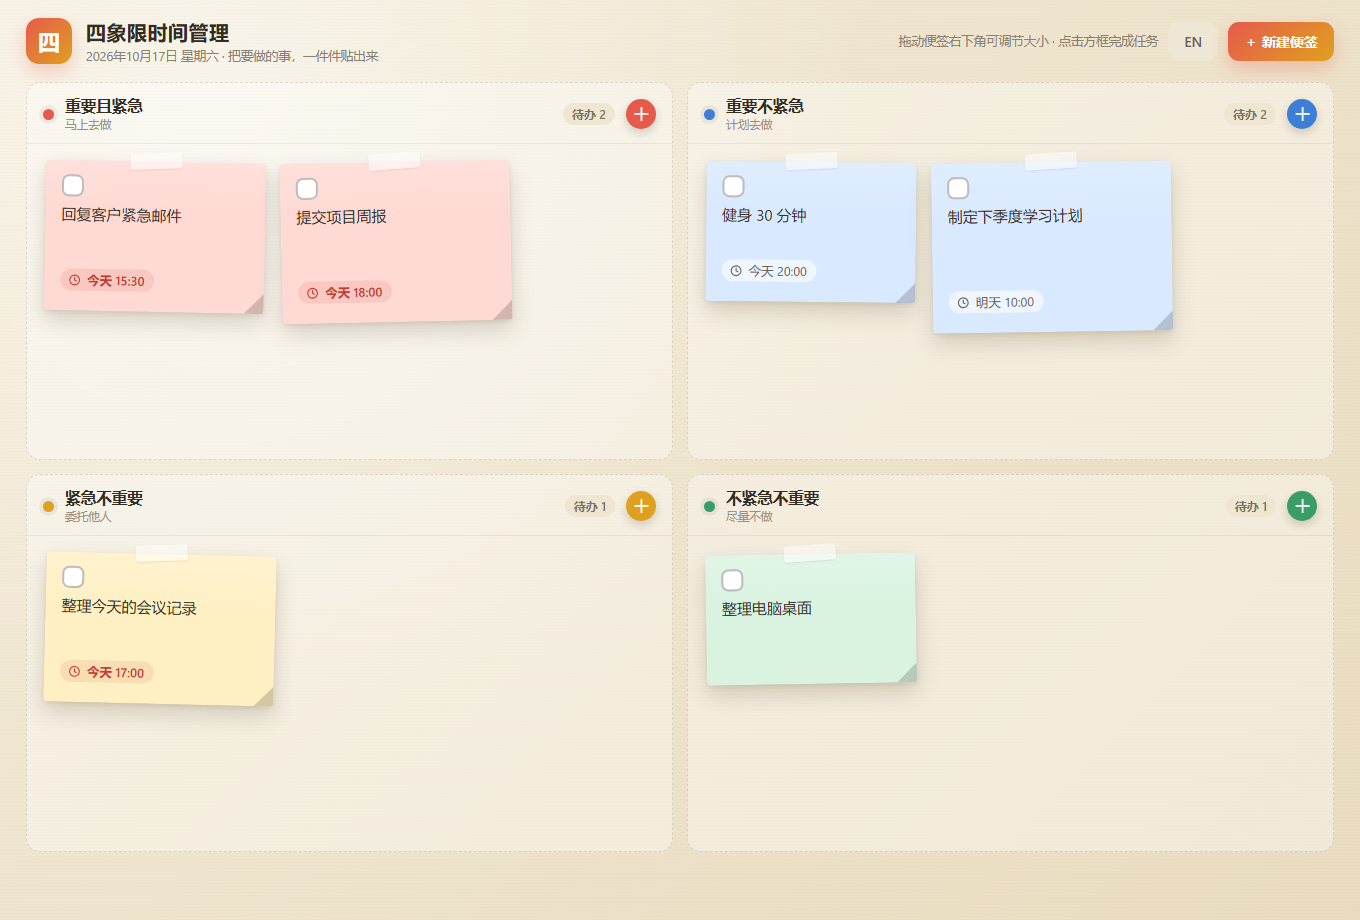
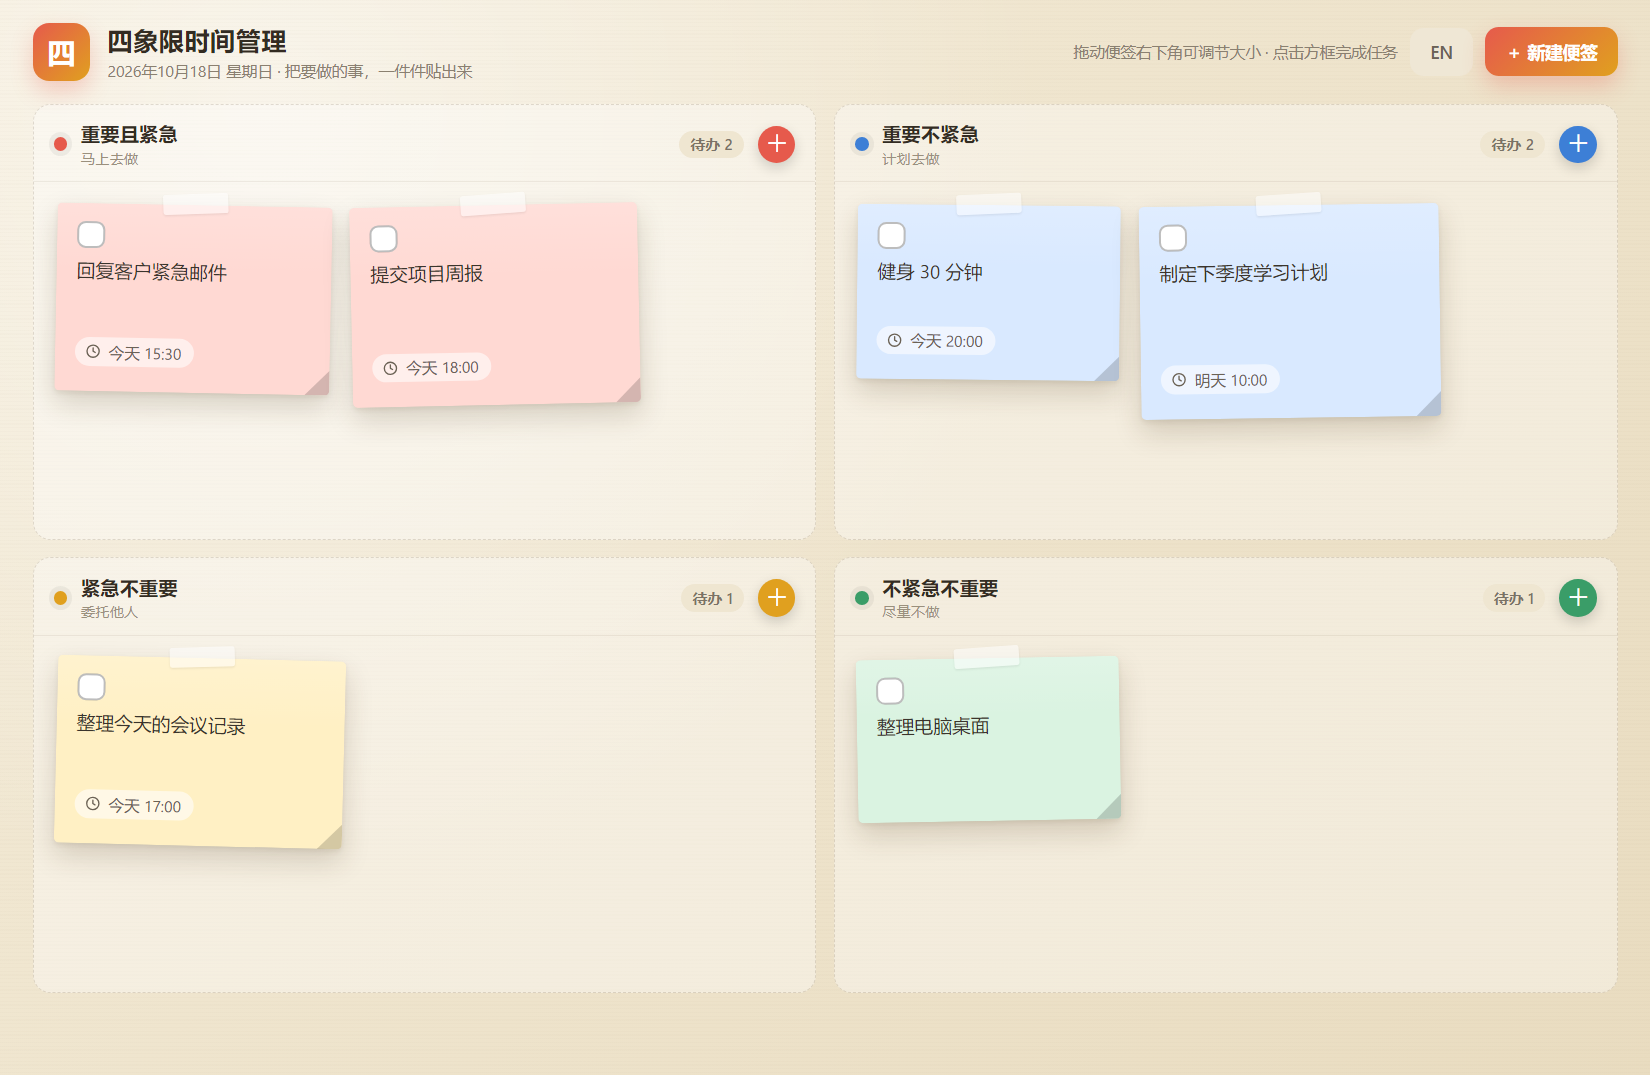
删除开机自启动,更换图标

diff --git a/renderer/app.js b/renderer/app.js
@@ -18,8 +18,6 @@ const I18N = {
     resize: "拖动右下角调节大小",
     toDo: "待完成",
     todoLabel: "待办",
-    startup: "开机自启",
-    startupTip: "登录后自动启动本应用",
     addHere: "添加便签",
     today: "今天",
     tomorrow: "明天",
@@ -50,8 +48,6 @@ const I18N = {
     resize: "Drag the corner to resize",
     toDo: "To-do",
     todoLabel: "To-do",
-    startup: "Start at login",
-    startupTip: "Launch this app automatically at login",
     addHere: "Add note",
     today: "Today",
     tomorrow: "Tomorrow",
@@ -304,8 +300,6 @@ function applyI18n() {
   $("hint").textContent = L.hint;
   $("langBtn").textContent = lang === "zh" ? "EN" : "中文";
   $("globalAdd").textContent = L.newNote;
-  $("startupLabel").textContent = L.startup;
-  $("startupWrap").setAttribute("title", L.startupTip);
   $("today").textContent = fmtHeaderDate();
 
   document.querySelectorAll(".quadrant").forEach(function (q) {
@@ -388,23 +382,6 @@ $("langBtn").addEventListener("click", function () {
   applyI18n();
   renderAll();
 });
-
-const startupToggle = $("startupToggle");
-if (window.startupAPI) {
-  window.startupAPI.get().then(function (v) {
-    startupToggle.checked = !!v;
-  }).catch(function () {});
-  startupToggle.addEventListener("change", function () {
-    const desired = startupToggle.checked;
-    window.startupAPI.set(desired).then(function (ok) {
-      startupToggle.checked = !!ok;
-    }).catch(function () {
-      startupToggle.checked = !desired;
-    });
-  });
-} else {
-  $("startupWrap").style.display = "none";
-}
 
 applyI18n();
 renderAll();

diff --git a/main.js b/main.js
@@ -1,9 +1,14 @@
-const { app, BrowserWindow, Menu, ipcMain } = require("electron");
+const { app, BrowserWindow, Menu } = require("electron");
+const fs = require("fs");
 const path = require("path");
-const { getStartupEnabled, setStartupEnabled } = require("./startup");
 
 function createWindow() {
-  const win = new BrowserWindow({
+  const iconPath = path.join(
+    __dirname,
+    "build",
+    process.platform === "win32" ? "icon.ico" : "icon.png"
+  );
+  const windowOptions = {
     width: 1320,
     height: 860,
     minWidth: 920,
@@ -12,21 +17,22 @@ function createWindow() {
     backgroundColor: "#f3ead7",
     autoHideMenuBar: true,
     webPreferences: {
-      preload: path.join(__dirname, "preload.js"),
       contextIsolation: true,
       nodeIntegration: false
     }
-  });
+  };
+
+  if (!app.isPackaged && fs.existsSync(iconPath)) {
+    windowOptions.icon = iconPath;
+    if (process.platform === "darwin" && app.dock) {
+      app.dock.setIcon(iconPath);
+    }
+  }
+
+  const win = new BrowserWindow(windowOptions);
 
   win.loadFile(path.join(__dirname, "renderer", "index.html"));
 }
-
-ipcMain.handle("startup:get", () => getStartupEnabled());
-
-ipcMain.handle("startup:set", async (_event, value) => {
-  await setStartupEnabled(!!value);
-  return getStartupEnabled();
-});
 
 app.whenReady().then(() => {
   if (process.platform === "darwin") {

diff --git a/renderer/styles.css b/renderer/styles.css
@@ -79,56 +79,6 @@ body {
   font-weight: 600;
 }
 
-.startup {
-  display: flex;
-  align-items: center;
-  gap: 7px;
-  cursor: pointer;
-  font-size: 13px;
-  color: var(--muted);
-  white-space: nowrap;
-  -webkit-user-select: none;
-  user-select: none;
-}
-
-.startup input {
-  position: absolute;
-  width: 0;
-  height: 0;
-  opacity: 0;
-}
-
-.switch {
-  width: 34px;
-  height: 19px;
-  border-radius: 999px;
-  background: #d9d0bd;
-  position: relative;
-  flex: 0 0 auto;
-  transition: background .15s ease;
-}
-
-.switch::after {
-  content: "";
-  position: absolute;
-  top: 2px;
-  left: 2px;
-  width: 15px;
-  height: 15px;
-  border-radius: 50%;
-  background: #fff;
-  box-shadow: 0 1px 2px rgba(0, 0, 0, .25);
-  transition: left .15s ease;
-}
-
-.startup input:checked + .switch {
-  background: #3a9d68;
-}
-
-.startup input:checked + .switch::after {
-  left: 17px;
-}
-
 .board {
   display: grid;
   grid-template-columns: 1fr 1fr;

diff --git a/renderer/index.html b/renderer/index.html
@@ -17,11 +17,6 @@
     </div>
     <div class="top-actions">
       <span id="hint" class="hint"></span>
-      <label class="startup" id="startupWrap" title="登录后自动启动本应用">
-        <input type="checkbox" id="startupToggle">
-        <span class="switch"></span>
-        <span id="startupLabel">开机自启</span>
-      </label>
       <button id="langBtn" class="btn ghost" title="Switch language">EN</button>
       <button id="globalAdd" class="btn primary">＋ 新建便签</button>
     </div>

diff --git a/README_EN.md b/README_EN.md
@@ -19,7 +19,6 @@ English · [简体中文](README.md)
 - **Mark as done**: completed notes fade out with a strikethrough and move to the end of the quadrant; a live to-do counter sits in each quadrant header
 - **Free resizing**: drag the folded corner at the bottom-right of a note to resize it
 - **Bilingual UI**: switch between Chinese and English with one click; your choice is remembered
-- **Launch at login**: optional auto-start on login
 - **Local data storage**: data is stored on your machine, works offline, and survives restarts; sample notes included on first launch
 - **Zero-dependency runtime**: the packaged app is a single portable file — no installation, no network required
 
@@ -62,15 +61,14 @@ See [TEST.md](TEST.md) for the manual test checklist, covering 9 groups: launch,
 
 ## Tech stack
 
-- [Electron](https://www.electronjs.org/) 33 (main process + preload script, contextIsolation enabled)
+- [Electron](https://www.electronjs.org/) 33 (main process + renderer, contextIsolation enabled)
 - Plain HTML / CSS / JavaScript in the renderer — no frontend framework
 - Data storage: localStorage
 
 ## Project layout
 
 ```
-├── main.js           # Electron main process (window, menu, launch-at-login)
-├── preload.js        # Preload script (contextBridge exposes startupAPI)
+├── main.js           # Electron main process (window, menu)
 ├── renderer/         # Renderer (index.html / app.js / styles.css)
 ├── build/            # App icons and style drafts
 ├── docs/             # Documentation images

diff --git a/README.md b/README.md
@@ -19,7 +19,6 @@
 - **完成打勾**：完成的任务变淡划线、自动排到象限末尾，象限右上角实时显示待办数量
 - **自由缩放**：拖动便签右下角折角即可调整便签大小
 - **中英双语**：界面一键切换中 / 英文，选择会被记住
-- **开机自启**：可选择在登录后自动启动应用
 - **数据本地保存**：数据保存在本机，离线可用，关闭重开不丢失；首次打开自带示例便签
 - **零依赖运行时**：打包后为单文件便携应用，无需安装、无需联网
 
@@ -62,15 +61,14 @@ npm run dist:mac
 
 ## 技术栈
 
-- [Electron](https://www.electronjs.org/) 33（主进程 + 预加载脚本，contextIsolation 开启）
+- [Electron](https://www.electronjs.org/) 33（主进程 + 渲染进程，contextIsolation 开启）
 - 渲染层为原生 HTML / CSS / JavaScript，无前端框架
 - 数据存储：localStorage
 
 ## 目录结构
 
 ```
-├── main.js           # Electron 主进程（窗口、菜单、开机自启）
-├── preload.js        # 预加载脚本（contextBridge 暴露 startupAPI）
+├── main.js           # Electron 主进程（窗口、菜单）
 ├── renderer/         # 渲染层（index.html / app.js / styles.css）
 ├── build/            # 应用图标与风格稿
 ├── docs/             # 文档图片
